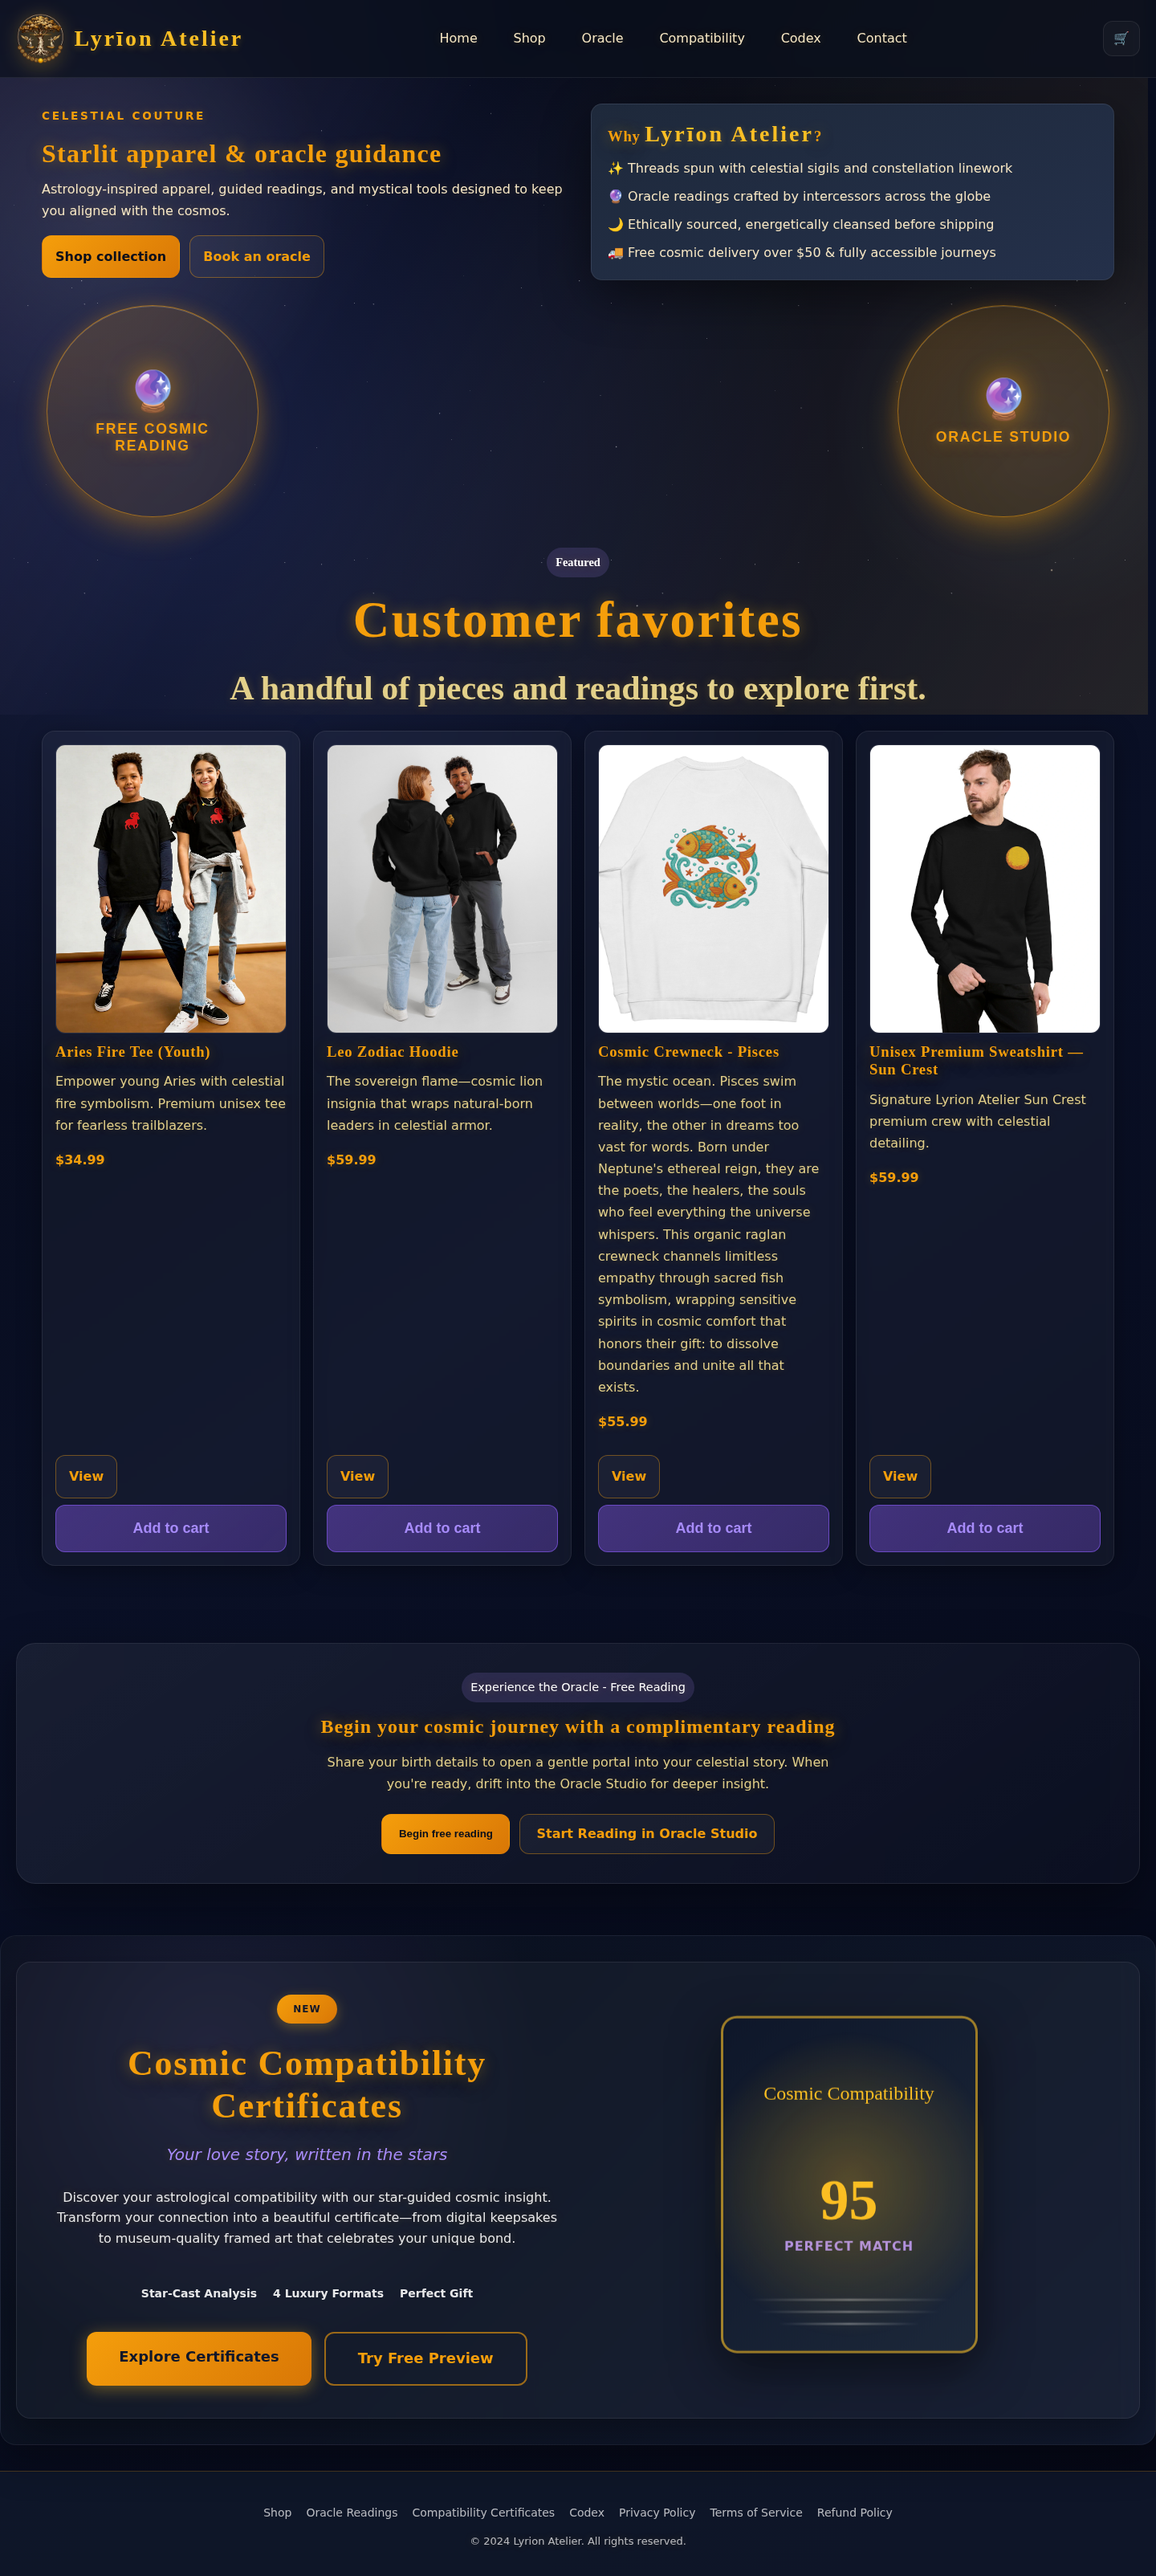
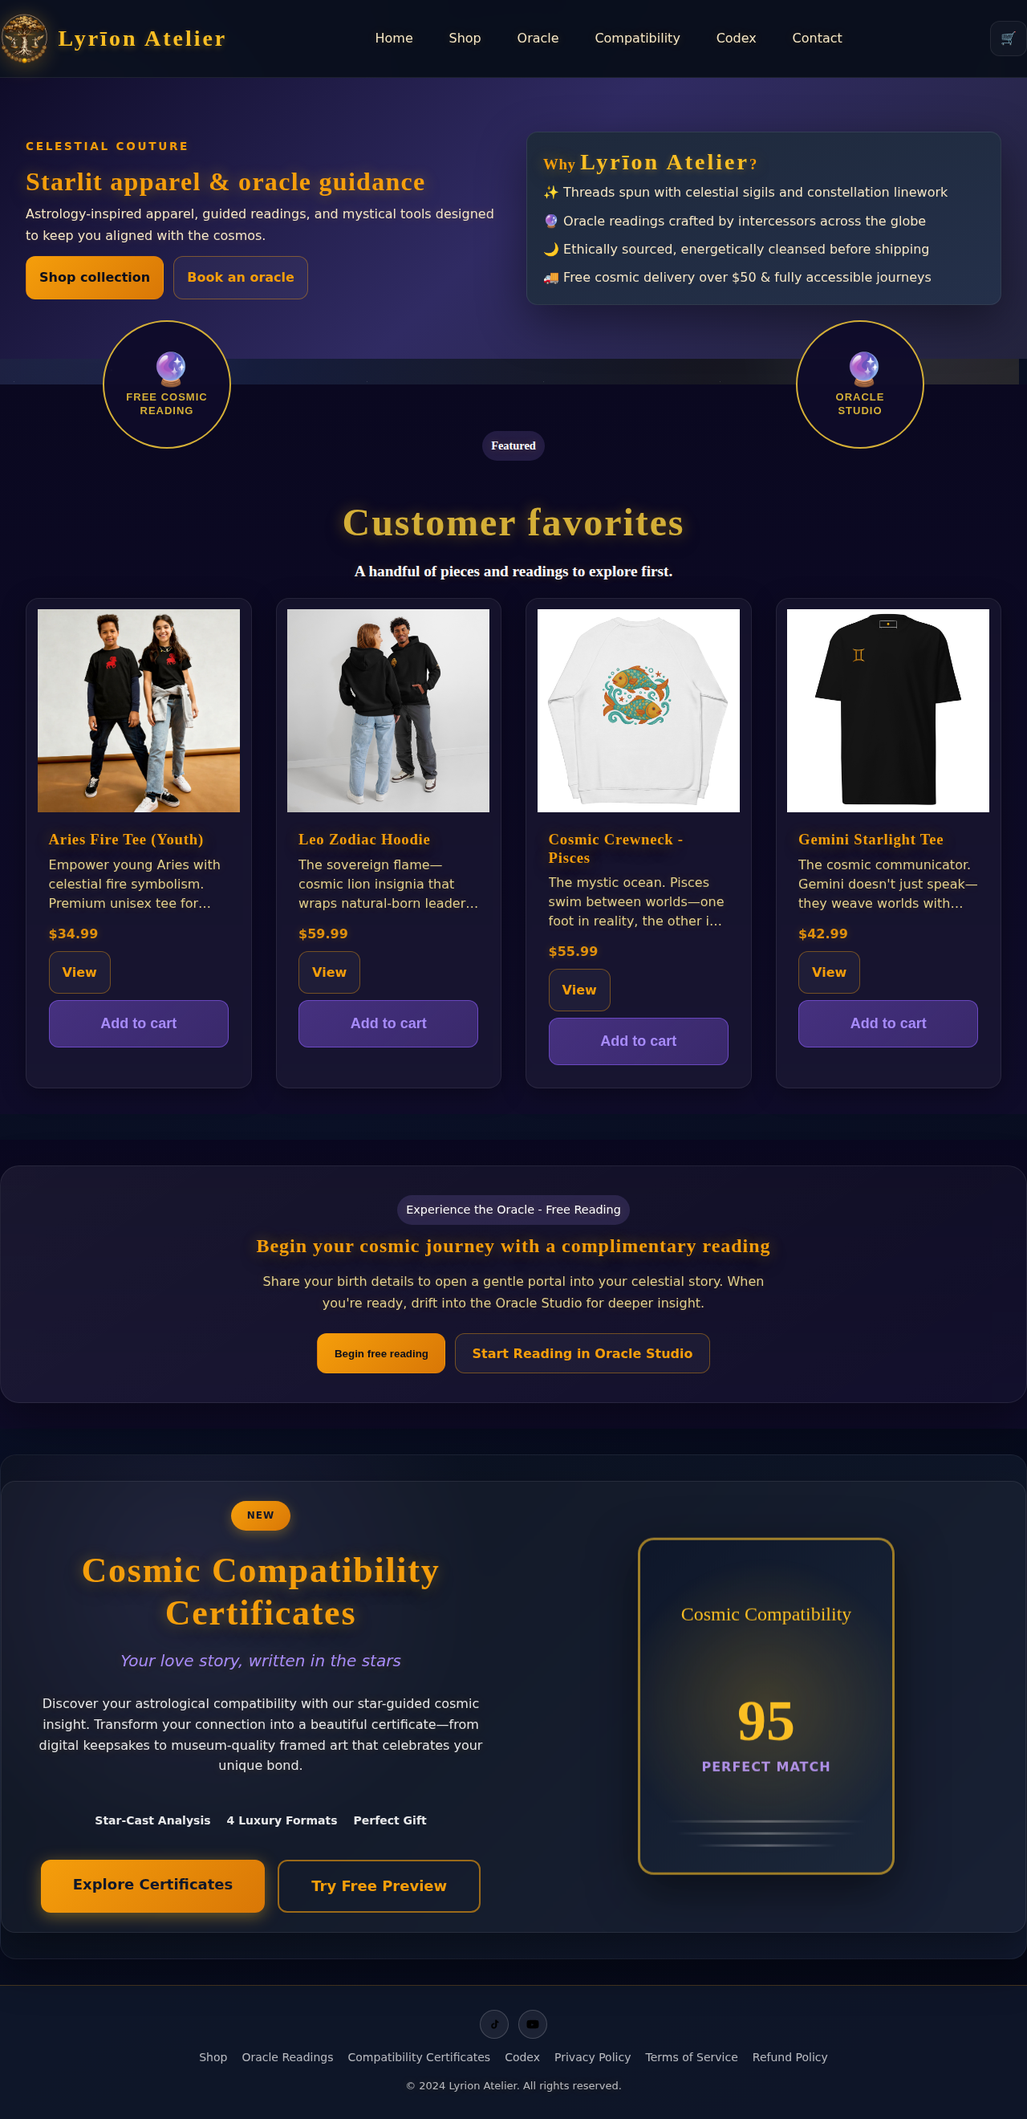
chore: simplify footer socials and restore product interactions

diff --git a/js/main.js b/js/main.js
@@ -111,10 +111,6 @@ function applySharedLayout() {
     footer.parentElement.insertBefore(main, footer);
   }
 
-  if (!isContactPage()) {
-    ensureSocialEmbeds();
-  }
-
   body.dataset.layoutApplied = 'true';
 }
 
@@ -160,9 +156,22 @@ function isContactPage() {
 function buildSiteFooter() {
   const footer = document.createElement('footer');
   footer.className = 'footer';
-  if (isContactPage()) {
-    footer.innerHTML = `
+  const socialLinks = `
+        <div class="footer-social" aria-label="Lyrion Atelier social links">
+          <a class="footer-social__link" href="https://www.tiktok.com/@lyrionatelier" target="_blank" rel="noopener noreferrer" aria-label="Lyrion Atelier on TikTok">
+            <svg class="footer-social__icon" viewBox="0 0 24 24" aria-hidden="true">
+              <path d="M16.5 5.5c.7 1 1.7 1.8 2.9 2v2.3c-1.1-.05-2.1-.37-2.9-.89v5.06c0 2.97-2.41 5.37-5.39 5.37A4.6 4.6 0 0 1 7 14.7c0-2.55 2.04-4.63 4.59-4.63.33 0 .65.04.96.1v2.46c-.31-.12-.65-.18-1-.18-1.12 0-2.03.93-2.03 2.15s.9 2.15 2.03 2.15c1.12 0 2.03-.93 2.03-2.15V4.5h2.62z" />
+            </svg>
+          </a>
+          <a class="footer-social__link" href="https://www.youtube.com/@LyrionAtelier" target="_blank" rel="noopener noreferrer" aria-label="Lyrion Atelier on YouTube">
+            <svg class="footer-social__icon" viewBox="0 0 24 24" aria-hidden="true">
+              <path d="M21.8 8.2s-.2-1.4-.8-2c-.7-.8-1.5-.8-1.9-.9C16.3 5 12 5 12 5s-4.3 0-7.1.3c-.4.1-1.2.1-1.9.9-.6.6-.8 2-.8 2S2 9.8 2 11.4v1.2c0 1.6.2 3.2.2 3.2s.2 1.4.8 2c.7.8 1.5.8 1.9.9 2.8.3 7.1.3 7.1.3s4.3 0 7.1-.3c.4-.1 1.2-.1 1.9-.9.6-.6.8-2 .8-2s.2-1.6.2-3.2v-1.2c0-1.6-.2-3.2-.2-3.2zM9.75 14.5v-4l3.75 2-3.75 2z" />
+            </svg>
+          </a>
+        </div>`;
+  footer.innerHTML = `
       <div class="footer-content">
+        ${socialLinks}
         <div class="footer-links">
           <a href="shop.html">Shop</a>
           <a href="oracle.html">Oracle Readings</a>
@@ -174,81 +183,7 @@ function buildSiteFooter() {
         </div>
         <p>&copy; 2024 Lyrion Atelier. All rights reserved.</p>
       </div>`;
-  } else {
-    footer.innerHTML = `
-      <div class="footer-content">
-        <section class="social-follow" aria-labelledby="follow-atelier">
-          <div class="social-follow-headline">
-            <p class="social-kicker">Stay in orbit</p>
-            <h2 id="follow-atelier">Follow Lyrion Atelier</h2>
-            <p class="social-subtitle">Journey with us across the stars on TikTok and YouTube.</p>
-          </div>
-          <div class="social-grid">
-            <article class="social-card">
-              <div class="social-card-header">
-                <span class="social-chip">TikTok</span>
-                <p class="social-card-title">Profile Highlights</p>
-              </div>
-              <div class="social-card-body">
-                <div class="social-embed">
-                  <blockquote class="tiktok-embed" cite="https://www.tiktok.com/@lyrionatelier" data-unique-id="lyrionatelier" data-embed-from="embed_page" data-embed-type="creator">
-                    <section>
-                      <a target="_blank" rel="noopener noreferrer" title="@lyrionatelier" href="https://www.tiktok.com/@lyrionatelier">@lyrionatelier</a>
-                    </section>
-                  </blockquote>
-                </div>
-                <a class="social-fallback" href="https://www.tiktok.com/@lyrionatelier" target="_blank" rel="noopener noreferrer">Follow us on TikTok →</a>
-              </div>
-            </article>
-            <article class="social-card">
-              <div class="social-card-header">
-                <span class="social-chip">YouTube</span>
-                <p class="social-card-title">Channel &amp; Updates</p>
-              </div>
-              <div class="social-card-body">
-                <div class="youtube-subscribe">
-                  <div class="g-ytsubscribe" data-channel="@LyrionAtelier" data-layout="default" data-count="default" data-theme="dark"></div>
-                </div>
-                <div class="youtube-links">
-                  <a class="youtube-channel-link" href="https://www.youtube.com/@LyrionAtelier" target="_blank" rel="noopener noreferrer">@LyrionAtelier</a>
-                  <a class="youtube-cta" href="https://www.youtube.com/@LyrionAtelier" target="_blank" rel="noopener noreferrer">Visit YouTube Channel →</a>
-                </div>
-              </div>
-            </article>
-          </div>
-        </section>
-        <div class="footer-links">
-          <a href="shop.html">Shop</a>
-          <a href="oracle.html">Oracle Readings</a>
-          <a href="compatibility.html">Compatibility Certificates</a>
-          <a href="codex.html">Codex</a>
-          <a href="privacy-policy.html">Privacy Policy</a>
-          <a href="terms-of-service.html">Terms of Service</a>
-          <a href="refund-policy.html">Refund Policy</a>
-        </div>
-        <p>&copy; 2024 Lyrion Atelier. All rights reserved.</p>
-      </div>`;
-  }
   return footer;
-}
-
-const TIKTOK_EMBED_SRC = 'https://www.tiktok.com/embed.js';
-const YT_PLATFORM_SRC = 'https://apis.google.com/js/platform.js';
-
-function ensureSocialEmbeds() {
-  const head = document.head;
-  if (!head) return;
-
-  const ensureScript = (src) => {
-    if (head.querySelector(`script[src="${src}"]`)) return;
-    const script = document.createElement('script');
-    script.src = src;
-    script.async = true;
-    head.appendChild(script);
-  };
-
-  ensureScript(TIKTOK_EMBED_SRC);
-  ensureScript(YT_PLATFORM_SRC);
 }
 
 /**

diff --git a/index.html b/index.html
@@ -250,46 +250,18 @@
 
   <footer class="footer">
     <div class="footer-content">
-      <section class="social-follow" aria-labelledby="follow-atelier">
-        <div class="social-follow-headline">
-          <p class="social-kicker">Stay in orbit</p>
-          <h2 id="follow-atelier">Follow Lyrion Atelier</h2>
-          <p class="social-subtitle">Journey with us across the stars on TikTok and YouTube.</p>
-        </div>
-        <div class="social-grid">
-          <article class="social-card">
-            <div class="social-card-header">
-              <span class="social-chip">TikTok</span>
-              <p class="social-card-title">Profile Highlights</p>
-            </div>
-            <div class="social-card-body">
-              <div class="social-embed">
-                <blockquote class="tiktok-embed" cite="https://www.tiktok.com/@lyrionatelier" data-unique-id="lyrionatelier" data-embed-from="embed_page" data-embed-type="creator">
-                  <section>
-                    <a target="_blank" rel="noopener noreferrer" title="@lyrionatelier" href="https://www.tiktok.com/@lyrionatelier">@lyrionatelier</a>
-                  </section>
-                </blockquote>
-              </div>
-              <a class="social-fallback" href="https://www.tiktok.com/@lyrionatelier" target="_blank" rel="noopener noreferrer">Follow us on TikTok →</a>
-            </div>
-          </article>
-          <article class="social-card">
-            <div class="social-card-header">
-              <span class="social-chip">YouTube</span>
-              <p class="social-card-title">Channel &amp; Updates</p>
-            </div>
-            <div class="social-card-body">
-              <div class="youtube-subscribe">
-                <div class="g-ytsubscribe" data-channel="@LyrionAtelier" data-layout="default" data-count="default" data-theme="dark"></div>
-              </div>
-              <div class="youtube-links">
-                <a class="youtube-channel-link" href="https://www.youtube.com/@LyrionAtelier" target="_blank" rel="noopener noreferrer">@LyrionAtelier</a>
-                <a class="youtube-cta" href="https://www.youtube.com/@LyrionAtelier" target="_blank" rel="noopener noreferrer">Visit YouTube Channel →</a>
-              </div>
-            </div>
-          </article>
-        </div>
-      </section>
+      <div class="footer-social" aria-label="Lyrion Atelier social links">
+        <a class="footer-social__link" href="https://www.tiktok.com/@lyrionatelier" target="_blank" rel="noopener noreferrer" aria-label="Lyrion Atelier on TikTok">
+          <svg class="footer-social__icon" viewBox="0 0 24 24" aria-hidden="true">
+            <path d="M16.5 5.5c.7 1 1.7 1.8 2.9 2v2.3c-1.1-.05-2.1-.37-2.9-.89v5.06c0 2.97-2.41 5.37-5.39 5.37A4.6 4.6 0 0 1 7 14.7c0-2.55 2.04-4.63 4.59-4.63.33 0 .65.04.96.1v2.46c-.31-.12-.65-.18-1-.18-1.12 0-2.03.93-2.03 2.15s.9 2.15 2.03 2.15c1.12 0 2.03-.93 2.03-2.15V4.5h2.62z" />
+          </svg>
+        </a>
+        <a class="footer-social__link" href="https://www.youtube.com/@LyrionAtelier" target="_blank" rel="noopener noreferrer" aria-label="Lyrion Atelier on YouTube">
+          <svg class="footer-social__icon" viewBox="0 0 24 24" aria-hidden="true">
+            <path d="M21.8 8.2s-.2-1.4-.8-2c-.7-.8-1.5-.8-1.9-.9C16.3 5 12 5 12 5s-4.3 0-7.1.3c-.4.1-1.2.1-1.9.9-.6.6-.8 2-.8 2S2 9.8 2 11.4v1.2c0 1.6.2 3.2.2 3.2s.2 1.4.8 2c.7.8 1.5.8 1.9.9 2.8.3 7.1.3 7.1.3s4.3 0 7.1-.3c.4-.1 1.2-.1 1.9-.9.6-.6.8-2 .8-2s.2-1.6.2-3.2v-1.2c0-1.6-.2-3.2-.2-3.2zM9.75 14.5v-4l3.75 2-3.75 2z" />
+          </svg>
+        </a>
+      </div>
       <div class="footer-links">
         <a href="shop.html">Shop</a>
         <a href="oracle.html">Oracle Readings</a>

diff --git a/css/style.css b/css/style.css
@@ -3551,6 +3551,38 @@ RESPONSIVE DESIGN
   color: var(--accent-2);
 }
 
+.footer-social {
+  display: flex;
+  gap: 12px;
+  justify-content: center;
+  align-items: center;
+}
+
+.footer-social__link {
+  width: 36px;
+  height: 36px;
+  display: inline-flex;
+  align-items: center;
+  justify-content: center;
+  border-radius: 50%;
+  border: 1px solid rgba(255, 255, 255, 0.18);
+  color: rgba(255, 255, 255, 0.8);
+  background: rgba(255, 255, 255, 0.06);
+  transition: border-color 0.2s ease, color 0.2s ease, background 0.2s ease;
+}
+
+.footer-social__link:hover {
+  color: var(--brand-gold);
+  border-color: rgba(255, 255, 255, 0.35);
+  background: rgba(255, 255, 255, 0.09);
+}
+
+.footer-social__icon {
+  width: 18px;
+  height: 18px;
+  display: block;
+}
+
 .social-follow {
   width: 100%;
   background: linear-gradient(140deg, rgba(15, 23, 42, 0.85), rgba(23, 31, 52, 0.92));
